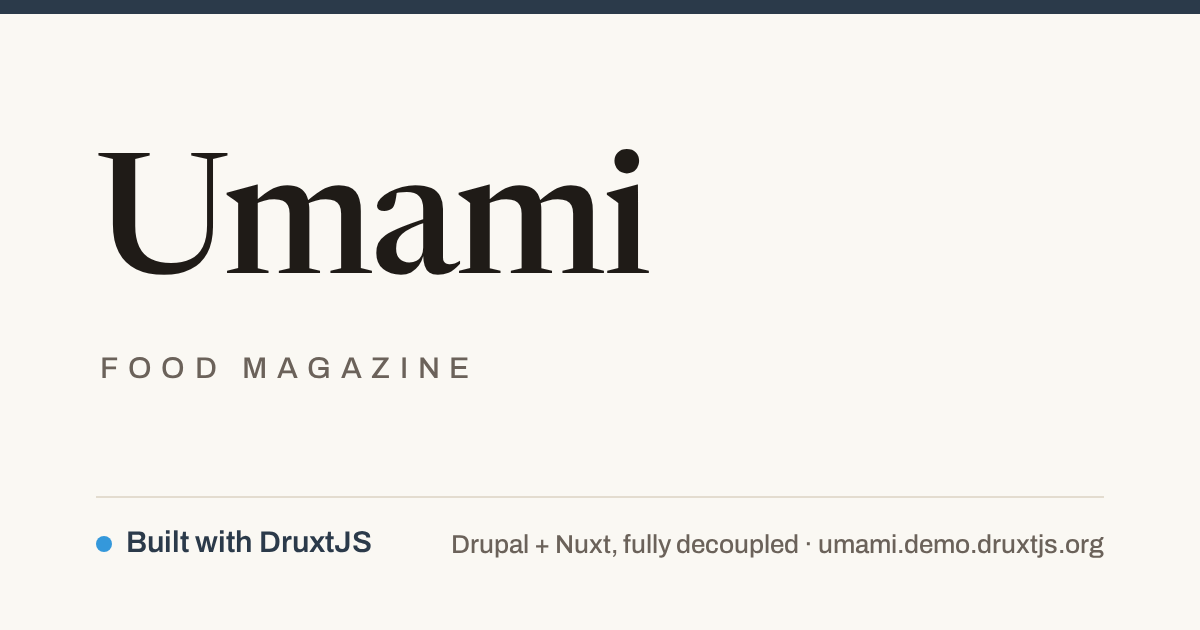
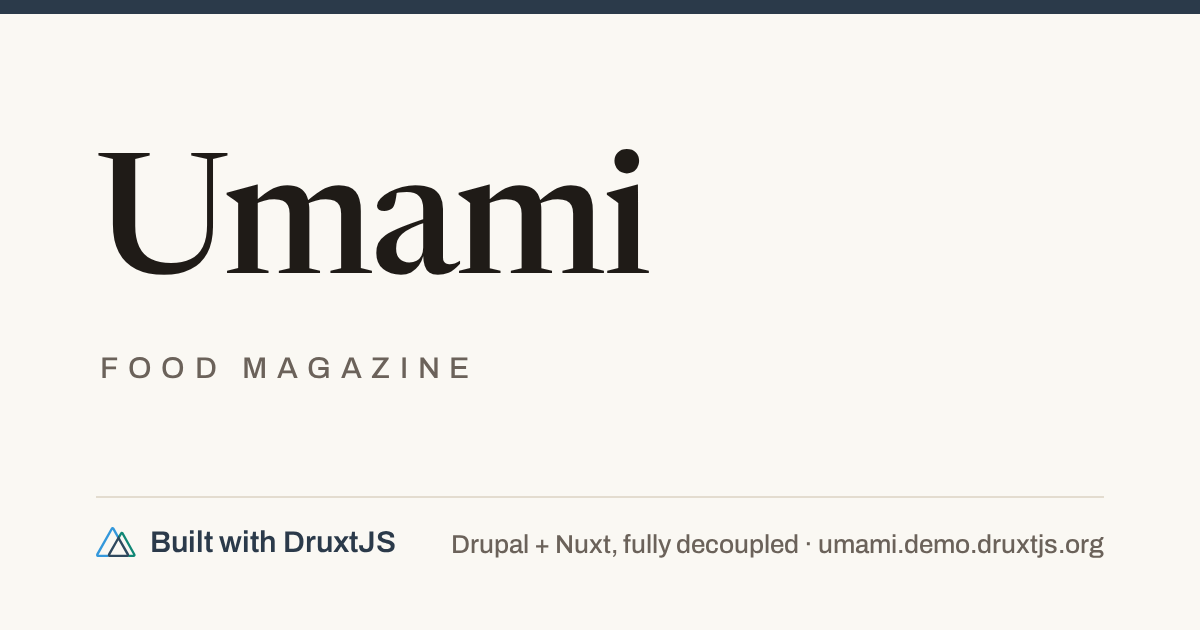
feat(seo): the share card shows the Druxt mark, from a template kept in the repo

Changed region(s): [[0.0617, 0.8444, 0.3392, 0.9048]]

diff --git a/nuxt/scripts/og-card.html b/nuxt/scripts/og-card.html
@@ -1,0 +1,112 @@
+<!DOCTYPE html>
+<html>
+  <head>
+    <meta charset="utf-8" />
+    <link
+      rel="stylesheet"
+      href="https://fonts.googleapis.com/css2?family=Newsreader:opsz,wght@6..72,500&family=Archivo:wght@500;600&display=swap"
+    />
+    <style>
+      html,
+      body {
+        margin: 0;
+      }
+      body {
+        background: #faf8f3;
+        color: #1f1b17;
+        font-family: Archivo, sans-serif;
+        height: 630px;
+        overflow: hidden;
+        position: relative;
+        width: 1200px;
+      }
+      .rule {
+        background: #2b3a4a;
+        height: 14px;
+        left: 0;
+        position: absolute;
+        right: 0;
+        top: 0;
+      }
+      .wm {
+        font-family: Newsreader, serif;
+        font-size: 168px;
+        font-weight: 500;
+        left: 96px;
+        letter-spacing: -0.02em;
+        line-height: 1;
+        position: absolute;
+        top: 150px;
+      }
+      .tag {
+        color: #6b625a;
+        font-size: 30px;
+        font-weight: 500;
+        left: 100px;
+        letter-spacing: 0.32em;
+        position: absolute;
+        text-transform: uppercase;
+        top: 352px;
+      }
+      .foot {
+        align-items: flex-end;
+        border-top: 2px solid #e3dccf;
+        bottom: 72px;
+        display: flex;
+        justify-content: space-between;
+        left: 96px;
+        padding-top: 28px;
+        position: absolute;
+        right: 96px;
+      }
+      .foot .a {
+        align-items: center;
+        color: #2b3a4a;
+        display: flex;
+        font-size: 30px;
+        font-weight: 600;
+        gap: 14px;
+      }
+      .foot .b {
+        color: #6b625a;
+        font-size: 26px;
+      }
+      .mark {
+        height: 30px;
+        width: auto;
+      }
+    </style>
+  </head>
+  <body>
+    <div class="rule"></div>
+    <div class="wm">Umami</div>
+    <div class="tag">Food magazine</div>
+    <div class="foot">
+      <div class="a">
+        <svg
+          class="mark"
+          viewBox="0 0 452 342"
+          xmlns="http://www.w3.org/2000/svg"
+          aria-hidden="true"
+        >
+          <path
+            fill="#3498DB"
+            d="M139 330l-1-2c-2-4-2-8-1-13H29L189 31l67 121 22-16-67-121c-1-2-9-14-22-14-6 0-15 2-22 15L5 303c-1 3-8 16-2 27 4 6 10 12 24 12h136c-14 0-21-6-24-12z"
+          />
+          <path
+            fill="#108775"
+            d="M447 304L317 70c-2-2-9-15-22-15-6 0-15 3-22 15l-17 28v54l39-67 129 230h-49a23 23 0 0 1-2 14l-1 1c-6 11-21 12-23 12h76c3 0 17-1 24-12 3-5 5-14-2-26z"
+          />
+          <path
+            fill="#2F495E"
+            d="M376 330v-1l1-2c1-4 2-8 1-12l-4-12-102-178-15-27h-1l-15 27-102 178-4 12a24 24 0 0 0 2 15c4 6 10 12 24 12h190c3 0 18-1 25-12zM256 152l93 163H163l93-163z"
+          />
+        </svg>
+        Built with DruxtJS
+      </div>
+      <div class="b">
+        Drupal + Nuxt, fully decoupled · umami.demo.druxtjs.org
+      </div>
+    </div>
+  </body>
+</html>

diff --git a/nuxt/scripts/render-og.js b/nuxt/scripts/render-og.js
@@ -1,0 +1,26 @@
+/**
+ * Renders the share card, static/og/site.png, from scripts/og-card.html at
+ * 1200 by 630: `node scripts/render-og.js`, with the browser tests installed.
+ */
+const path = require('path')
+
+const here = __dirname
+// Playwright lives with the browser tests, not in the app's dependencies.
+const { chromium } = require(require.resolve('@playwright/test', {
+  paths: [path.join(here, '..', '..', 'e2e')],
+}))
+const out = path.join(here, '..', 'static', 'og', 'site.png')
+
+;(async () => {
+  const browser = await chromium.launch()
+  const page = await browser.newPage({
+    viewport: { width: 1200, height: 630 },
+    deviceScaleFactor: 1,
+  })
+  await page.goto(`file://${path.join(here, 'og-card.html')}`)
+  await page.evaluate(() => document.fonts.ready)
+  await page.screenshot({ path: out, type: 'png' })
+  await browser.close()
+  // eslint-disable-next-line no-console
+  console.log(`wrote ${out}`)
+})()
